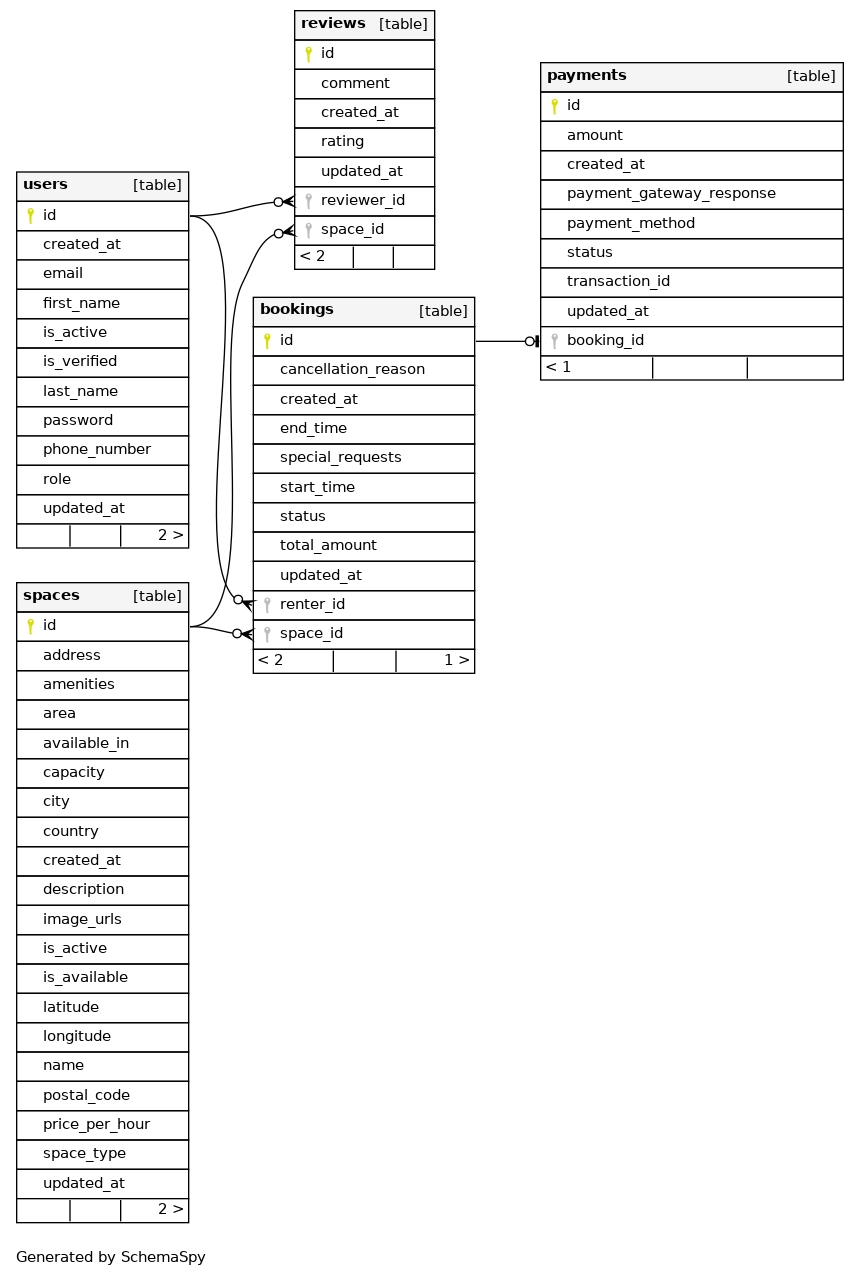
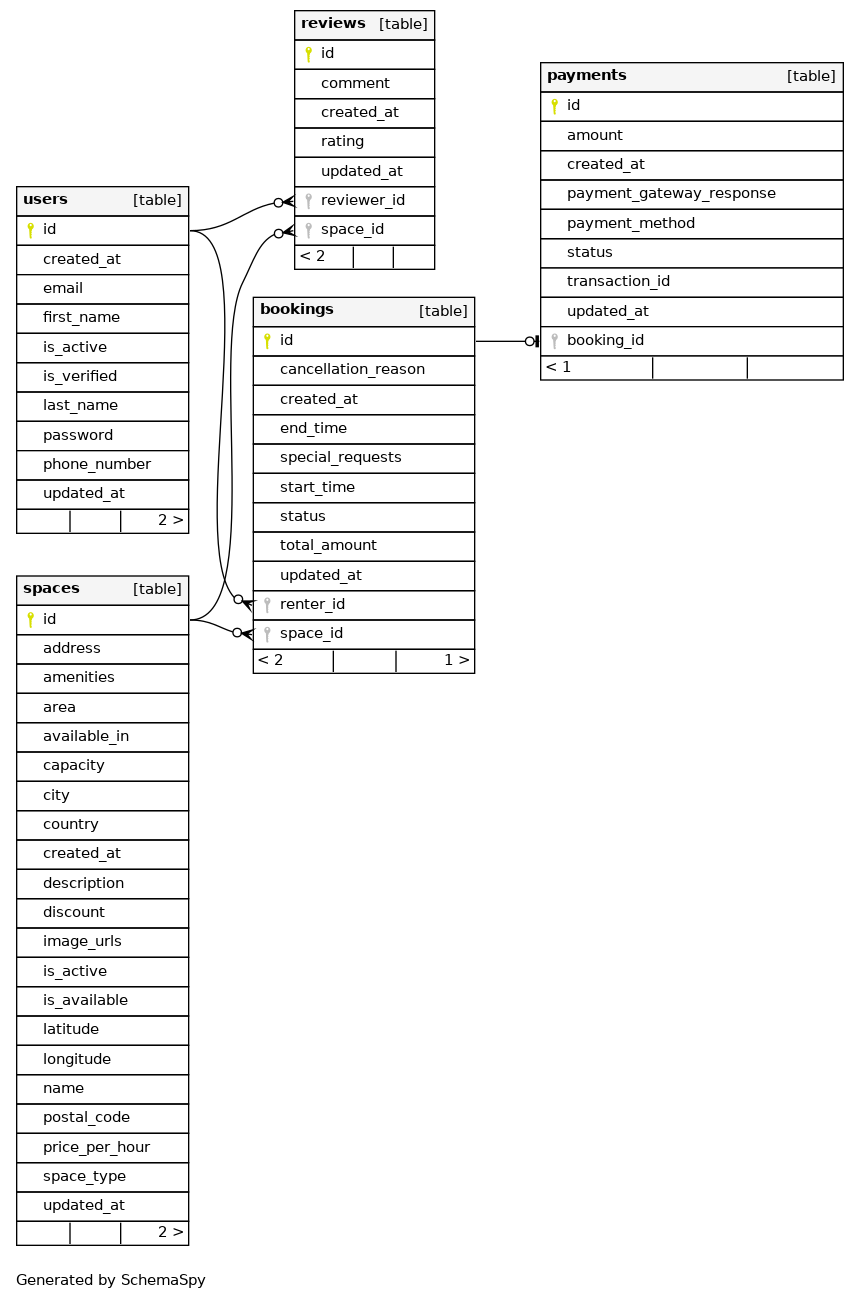
fixed errors

Changed region(s): [[0.0, 0.0, 0.9686, 1.0]]

diff --git a/docs/tables/users.html b/docs/tables/users.html
@@ -272,23 +272,6 @@
                                     <td></td>
                                 </tr>
                                 <tr>
-                                    <td><span id="role">role</span></td>
-                                    <td>varchar</td>
-                                    <td>255</td>
-                                    <td title=''></td>
-                                    <td title=''></td>
-                                    <td>null</td>
-                                    <td>
-                                        <table border='0' cellspacing='0' cellpadding='0'>
-                                        </table>
-                                    </td>
-                                    <td>
-                                        <table border='0' cellspacing='0' cellpadding='0'>
-                                        </table>
-                                    </td>
-                                    <td></td>
-                                </tr>
-                                <tr>
                                     <td><span id="updated_at">updated_at</span></td>
                                     <td>timestamp</td>
                                     <td>29,6</td>
@@ -359,38 +342,6 @@
                     </div>
                     <div class="box box-primary">
                         <div class="box-header with-border">
-                            <i class="fa fa-sitemap"></i>
-                            <h3 class="box-title">Check Constraints</h3>
-                            <div class="box-tools pull-right">
-                                <button type="button" class="btn btn-box-tool" data-widget="collapse"><i class="fa fa-minus"></i></button>
-                                <button type="button" class="btn btn-box-tool" data-widget="remove"><i class="fa fa-times"></i></button>
-                            </div>
-                        </div>
-                        <div class="box-body">
-                            <table
-                                    id="check_table"
-                                    class="table table-bordered table-striped dataTable"
-                                    role="grid"
-                                    data-paging="true"
-                                    data-page-length="10"
-                                    data-length-change="false">
-                                <thead align='left'>
-                                <tr>
-                                    <th>Constraint Name</th>
-                                    <th>Constraint</th>
-                                </tr>
-                                </thead>
-                                <tbody>
-                                <tr>
-                                    <td>users_role_check</td>
-                                    <td>(((role)::text &#61; ANY ((ARRAY[&#39;ADMIN&#39;::character varying, &#39;USER&#39;::character varying])::text[])))</td>
-                                </tr>
-                                </tbody>
-                            </table>
-                        </div>
-                    </div>
-                    <div class="box box-primary">
-                        <div class="box-header with-border">
                             <i class="fa fa-code-fork"></i>
                             <h3 id="Relationships" class="box-title">Relationships</h3>
                             <div class="box-tools pull-right">
@@ -409,18 +360,18 @@
                                     <div class="chart tab-pane active" id="oneDegreeImg-chart" style="position: relative; overflow-x:auto;">
                                         <map id="oneDegreeRelationshipsDiagram" name="oneDegreeRelationshipsDiagram">
 <area shape="rect" id="node1" href="bookings.html" target="_top" title="bookings" alt="" coords="389,5,632,181">
-<area shape="rect" id="node2" href="users.html" target="_top" title="users" alt="" coords="5,128,345,520">
+<area shape="rect" id="node2" href="users.html" target="_top" title="users" alt="" coords="5,128,345,491">
 <area shape="rect" id="node3" href="reviews.html" target="_top" title="reviews" alt="" coords="430,199,591,375">
 </map>
                                         <a name='diagram'><img id="oneDegreeImg" src="../diagrams/tables/users.1degree.png" usemap="#oneDegreeRelationshipsDiagram" class="diagram" border="0" align="left"></a>
                                     </div>
                                     <div class="chart tab-pane " id="twodegreesDegreeImg-chart" style="position: relative; overflow-x:auto;">
                                         <map id="twoDegreesRelationshipsDiagram" name="twoDegreesRelationshipsDiagram">
-<area shape="rect" id="node1" href="bookings.html" target="_top" title="bookings" alt="" coords="389,24,632,200">
-<area shape="rect" id="node2" href="users.html" target="_top" title="users" alt="" coords="5,5,345,397">
-<area shape="rect" id="node3" href="spaces.html" target="_top" title="spaces" alt="" coords="100,415,251,503">
-<area shape="rect" id="node4" href="payments.html" target="_top" title="payments" alt="" coords="676,27,856,115">
-<area shape="rect" id="node5" href="reviews.html" target="_top" title="reviews" alt="" coords="430,263,591,439">
+<area shape="rect" id="node1" href="bookings.html" target="_top" title="bookings" alt="" coords="389,17,632,193">
+<area shape="rect" id="node2" href="users.html" target="_top" title="users" alt="" coords="5,5,345,368">
+<area shape="rect" id="node3" href="spaces.html" target="_top" title="spaces" alt="" coords="100,385,251,473">
+<area shape="rect" id="node4" href="payments.html" target="_top" title="payments" alt="" coords="676,20,856,108">
+<area shape="rect" id="node5" href="reviews.html" target="_top" title="reviews" alt="" coords="430,248,591,424">
 </map>
                                         <a name='diagram'><img id="twodegreesDegreeImg" src="../diagrams/tables/users.2degrees.png" usemap="#twoDegreesRelationshipsDiagram" class="diagram" border="0" align="left"></a>
                                     </div>

diff --git a/docs/tables/spaces.html b/docs/tables/spaces.html
@@ -173,7 +173,7 @@
                                     <td><span id="area">area</span></td>
                                     <td>numeric</td>
                                     <td>8,2</td>
-                                    <td title='nullable'>√</td>
+                                    <td title=''></td>
                                     <td title=''></td>
                                     <td>null</td>
                                     <td>
@@ -276,6 +276,23 @@
                                     <td>varchar</td>
                                     <td>2000</td>
                                     <td title=''></td>
+                                    <td title=''></td>
+                                    <td>null</td>
+                                    <td>
+                                        <table border='0' cellspacing='0' cellpadding='0'>
+                                        </table>
+                                    </td>
+                                    <td>
+                                        <table border='0' cellspacing='0' cellpadding='0'>
+                                        </table>
+                                    </td>
+                                    <td></td>
+                                </tr>
+                                <tr>
+                                    <td><span id="discount">discount</span></td>
+                                    <td>numeric</td>
+                                    <td>3,2</td>
+                                    <td title='nullable'>√</td>
                                     <td title=''></td>
                                     <td>null</td>
                                     <td>
@@ -394,7 +411,7 @@
                                     <td><span id="postal_code">postal_code</span></td>
                                     <td>varchar</td>
                                     <td>255</td>
-                                    <td title=''></td>
+                                    <td title='nullable'>√</td>
                                     <td title=''></td>
                                     <td>null</td>
                                     <td>
@@ -550,7 +567,7 @@
                                     <div class="chart tab-pane active" id="oneDegreeImg-chart" style="position: relative; overflow-x:auto;">
                                         <map id="oneDegreeRelationshipsDiagram" name="oneDegreeRelationshipsDiagram">
 <area shape="rect" id="node1" href="bookings.html" target="_top" title="bookings" alt="" coords="380,5,623,181">
-<area shape="rect" id="node2" href="spaces.html" target="_top" title="spaces" alt="" coords="5,157,336,813">
+<area shape="rect" id="node2" href="spaces.html" target="_top" title="spaces" alt="" coords="5,157,336,843">
 <area shape="rect" id="node3" href="reviews.html" target="_top" title="reviews" alt="" coords="421,199,582,375">
 </map>
                                         <a name='diagram'><img id="oneDegreeImg" src="../diagrams/tables/spaces.1degree.png" usemap="#oneDegreeRelationshipsDiagram" class="diagram" border="0" align="left"></a>
@@ -559,7 +576,7 @@
                                         <map id="twoDegreesRelationshipsDiagram" name="twoDegreesRelationshipsDiagram">
 <area shape="rect" id="node1" href="bookings.html" target="_top" title="bookings" alt="" coords="380,5,623,181">
 <area shape="rect" id="node2" href="users.html" target="_top" title="users" alt="" coords="103,93,239,181">
-<area shape="rect" id="node3" href="spaces.html" target="_top" title="spaces" alt="" coords="5,227,336,883">
+<area shape="rect" id="node3" href="spaces.html" target="_top" title="spaces" alt="" coords="5,227,336,912">
 <area shape="rect" id="node4" href="payments.html" target="_top" title="payments" alt="" coords="667,8,847,96">
 <area shape="rect" id="node5" href="reviews.html" target="_top" title="reviews" alt="" coords="421,199,582,375">
 </map>

diff --git a/docs/index.html b/docs/index.html
@@ -78,7 +78,7 @@
                         <div class="col-md-12">
                             <div class="callout callout-info">
                                 <h4>SchemaSpy Analysis of space_renting_db.public</h4>
-                                <p>Generated on Fri Jun 27 22:03 UTC 2025</p>
+                                <p>Generated on Sat Jun 28 10:47 UTC 2025</p>
                             </div>
                         </div>
                     </div>
@@ -236,7 +236,7 @@
                                         <td class="detail"><a href="tables/spaces.html">spaces</a></td>
                                         <td class="detail" align="right">2</td>
                                         <td class="detail" align="right">0</td>
-                                        <td class="detail" align="right">20</td>
+                                        <td class="detail" align="right">21</td>
                                         <td class="detail" align="right">-1</td>
                                         <td class="detail" align="right">Table</td>
                                         <td class="comment detail" style="display: table-cell;"></td>
@@ -245,7 +245,7 @@
                                         <td class="detail"><a href="tables/users.html">users</a></td>
                                         <td class="detail" align="right">2</td>
                                         <td class="detail" align="right">0</td>
-                                        <td class="detail" align="right">11</td>
+                                        <td class="detail" align="right">10</td>
                                         <td class="detail" align="right">-1</td>
                                         <td class="detail" align="right">Table</td>
                                         <td class="comment detail" style="display: table-cell;"></td>

diff --git a/docs/columns.html b/docs/columns.html
@@ -539,7 +539,7 @@
         "name": "area",
         "type": "numeric",
         "length": 8,
-        "nullable": "√",
+        "nullable": "",
         "autoUpdated": "",
         "defaultValue": "null",
         "comments": ""
@@ -624,6 +624,20 @@
         "type": "varchar",
         "length": 2000,
         "nullable": "",
+        "autoUpdated": "",
+        "defaultValue": "null",
+        "comments": ""
+    },
+    {
+        "tableName": "spaces",
+        "tableFileName": "spaces",
+        "tableType": "Table",
+        "keyClass": "",
+        "keyTitle": "",
+        "name": "discount",
+        "type": "numeric",
+        "length": 3,
+        "nullable": "√",
         "autoUpdated": "",
         "defaultValue": "null",
         "comments": ""
@@ -721,7 +735,7 @@
         "name": "postal_code",
         "type": "varchar",
         "length": 255,
-        "nullable": "",
+        "nullable": "√",
         "autoUpdated": "",
         "defaultValue": "null",
         "comments": ""
@@ -889,20 +903,6 @@
         "name": "<i class='fa fa-sitemap fa-rotate-120' style='padding-right: 5px;'></i>phone_number",
         "type": "varchar",
         "length": 20,
-        "nullable": "",
-        "autoUpdated": "",
-        "defaultValue": "null",
-        "comments": ""
-    },
-    {
-        "tableName": "users",
-        "tableFileName": "users",
-        "tableType": "Table",
-        "keyClass": "",
-        "keyTitle": "",
-        "name": "role",
-        "type": "varchar",
-        "length": 255,
         "nullable": "",
         "autoUpdated": "",
         "defaultValue": "null",

diff --git a/docs/relationships.html b/docs/relationships.html
@@ -104,8 +104,8 @@
                                     <div class="chart tab-pane " id="largeDegreeImg-chart" style="position: relative; overflow-x:auto;">
                                         <map id="largeRelationshipsDiagram" name="largeRelationshipsDiagram">
 <area shape="rect" id="node1" href="tables/reviews.html" target="_top" title="reviews" alt="" coords="283,5,445,275">
-<area shape="rect" id="node4" href="tables/spaces.html" target="_top" title="spaces" alt="" coords="5,577,199,1228">
-<area shape="rect" id="node5" href="tables/users.html" target="_top" title="users" alt="" coords="5,167,199,553">
+<area shape="rect" id="node4" href="tables/spaces.html" target="_top" title="spaces" alt="" coords="5,571,199,1251">
+<area shape="rect" id="node5" href="tables/users.html" target="_top" title="users" alt="" coords="5,181,199,539">
 <area shape="rect" id="node2" href="tables/bookings.html" target="_top" title="bookings" alt="" coords="243,292,485,679">
 <area shape="rect" id="node3" href="tables/payments.html" target="_top" title="payments" alt="" coords="529,57,853,385">
 </map>

diff --git a/docs/constraints.html b/docs/constraints.html
@@ -247,11 +247,6 @@
                                         <td>spaces_space_type_check</td>
                                         <td>(((space_type)::text &#61; ANY ((ARRAY[&#39;OFFICE&#39;::character varying, &#39;MEETING_ROOM&#39;::character varying, &#39;COWORKING_SPACE&#39;::character varying, &#39;EVENT_SPACE&#39;::character varying, &#39;CONFERENCE_ROOM&#39;::character varying, &#39;WORKSHOP_SPACE&#39;::character varying])::text[])))</td>
                                     </tr>
-                                    <tr>
-                                        <td><a href='tables/users.html'>users</a></td>
-                                        <td>users_role_check</td>
-                                        <td>(((role)::text &#61; ANY ((ARRAY[&#39;ADMIN&#39;::character varying, &#39;USER&#39;::character varying])::text[])))</td>
-                                    </tr>
                                 </tbody>
                             </table>
                         </div>

diff --git a/src/test/java/com/oussama/space_renting/repository/UserRepositoryTest.java b/src/test/java/com/oussama/space_renting/repository/UserRepositoryTest.java
@@ -42,7 +42,6 @@ public class UserRepositoryTest {
                 .email("john.doe@example.com")
                 .password("123")
                 .phoneNumber("123456789")
-                .role(UserRole.USER)
                 .isVerified(false)
                 .isActive(true)
                 .build();
@@ -78,7 +77,6 @@ public class UserRepositoryTest {
                 .email("john.doe@example.com")
                 .password("123")
                 .phoneNumber("123456789")
-                .role(UserRole.USER)
                 .isVerified(false)
                 .isActive(true)
                 .build();

diff --git a/src/test/java/com/oussama/space_renting/service/UserServiceTest.java b/src/test/java/com/oussama/space_renting/service/UserServiceTest.java
@@ -36,7 +36,6 @@ public class UserServiceTest {
                 .lastName("last name")
                 .email("email@gmail.com")
                 .password("password")
-                .role(UserRole.USER)
                 .build();
 
         UUID id = UUID.randomUUID();
@@ -74,7 +73,6 @@ public class UserServiceTest {
                 .lastName("last name")
                 .email(email)
                 .password("password")
-                .role(UserRole.USER)
                 .build();
         Mockito.when(userRepository.findByEmail(email)).thenReturn(Optional.of(user));
 

diff --git a/src/test/java/com/oussama/space_renting/security/CustomUserDetailsServiceTest.java b/src/test/java/com/oussama/space_renting/security/CustomUserDetailsServiceTest.java
@@ -38,7 +38,6 @@ public class CustomUserDetailsServiceTest {
          */
         Mockito.when(user.getEmail()).thenReturn( email);
         Mockito.when(user.getPassword()).thenReturn( password);
-        Mockito.when(user.getRole()).thenReturn( UserRole.USER);
 
         Mockito.when(userRepository.findByEmail(email)).thenReturn( Optional.of( user));
 
